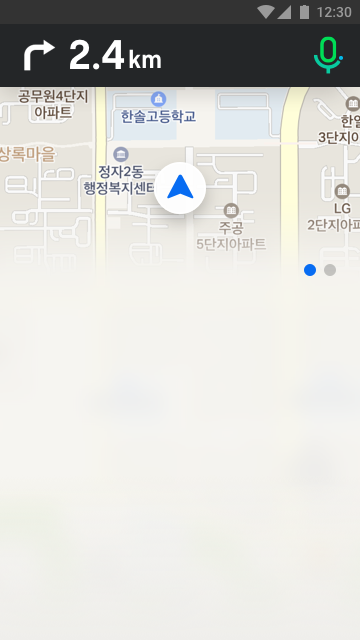
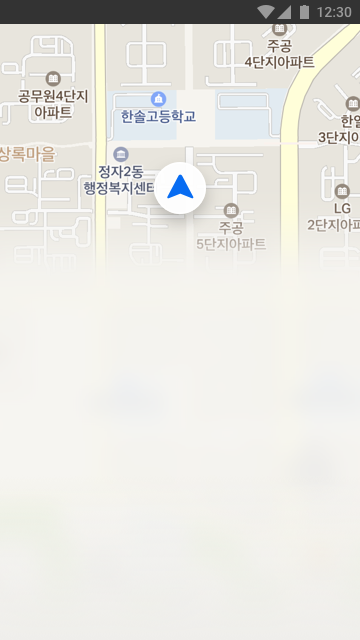
update assets

Changed region(s): [[0.0, 0.0312, 1.0, 0.1562], [0.825, 0.4062, 0.9472, 0.4375]]

diff --git a/read-spreadsheet.js b/read-spreadsheet.js
@@ -15,8 +15,8 @@ GoogleUrl = (function() {
     } else {
       this.key = this.sourceIdentifier;
     }
-    this.jsonCellsUrl = "http://spreadsheets.google.com/feeds/cells/" + this.key + "/od6/public/basic?alt=json-in-script";
-    this.jsonListUrl = "http://spreadsheets.google.com/feeds/list/" + this.key + "/od6/public/basic?alt=json-in-script";
+    this.jsonCellsUrl = "https://spreadsheets.google.com/feeds/cells/" + this.key + "/od6/public/basic?alt=json-in-script";
+    this.jsonListUrl = "https://spreadsheets.google.com/feeds/list/" + this.key + "/od6/public/basic?alt=json-in-script";
     this.jsonUrl = this.jsonCellsUrl;
   }
   return GoogleUrl;

diff --git a/index.html b/index.html
@@ -5,11 +5,20 @@
 	<meta charset="utf-8">
     <meta http-equiv="X-UA-Compatible" content="IE=edge">
     <meta name="viewport" content="width=device-width, initial-scale=1">
-    <script src="http://ajax.googleapis.com/ajax/libs/jquery/3.3.1/jquery.min.js"></script>
+    <script src="https://ajax.googleapis.com/ajax/libs/jquery/3.3.1/jquery.min.js"></script>
     <script type="text/javascript" src="read-spreadsheet.js"></script>
 	<style type="text/css">
+		body{
+			margin: 0;
+			width: 360px;
+		}
 		div{
 			position: relative;
+		}
+		.header{
+			position: fixed;
+			top: 0;
+			left: 0;
 		}
 		.container{
 			display: inline-block;

diff --git a/readFile.js b/readFile.js
@@ -149,4 +149,8 @@ function putCards(){
 			document.getElementsByClassName('filler')[0].appendChild(y);
 		}
 	}
+	var z = document.createElement('img');
+	z.setAttribute('src', "src/header_"+context+".png");
+	z.classList.add('header');
+	document.getElementsByClassName('container')[0].appendChild(z);
 }
